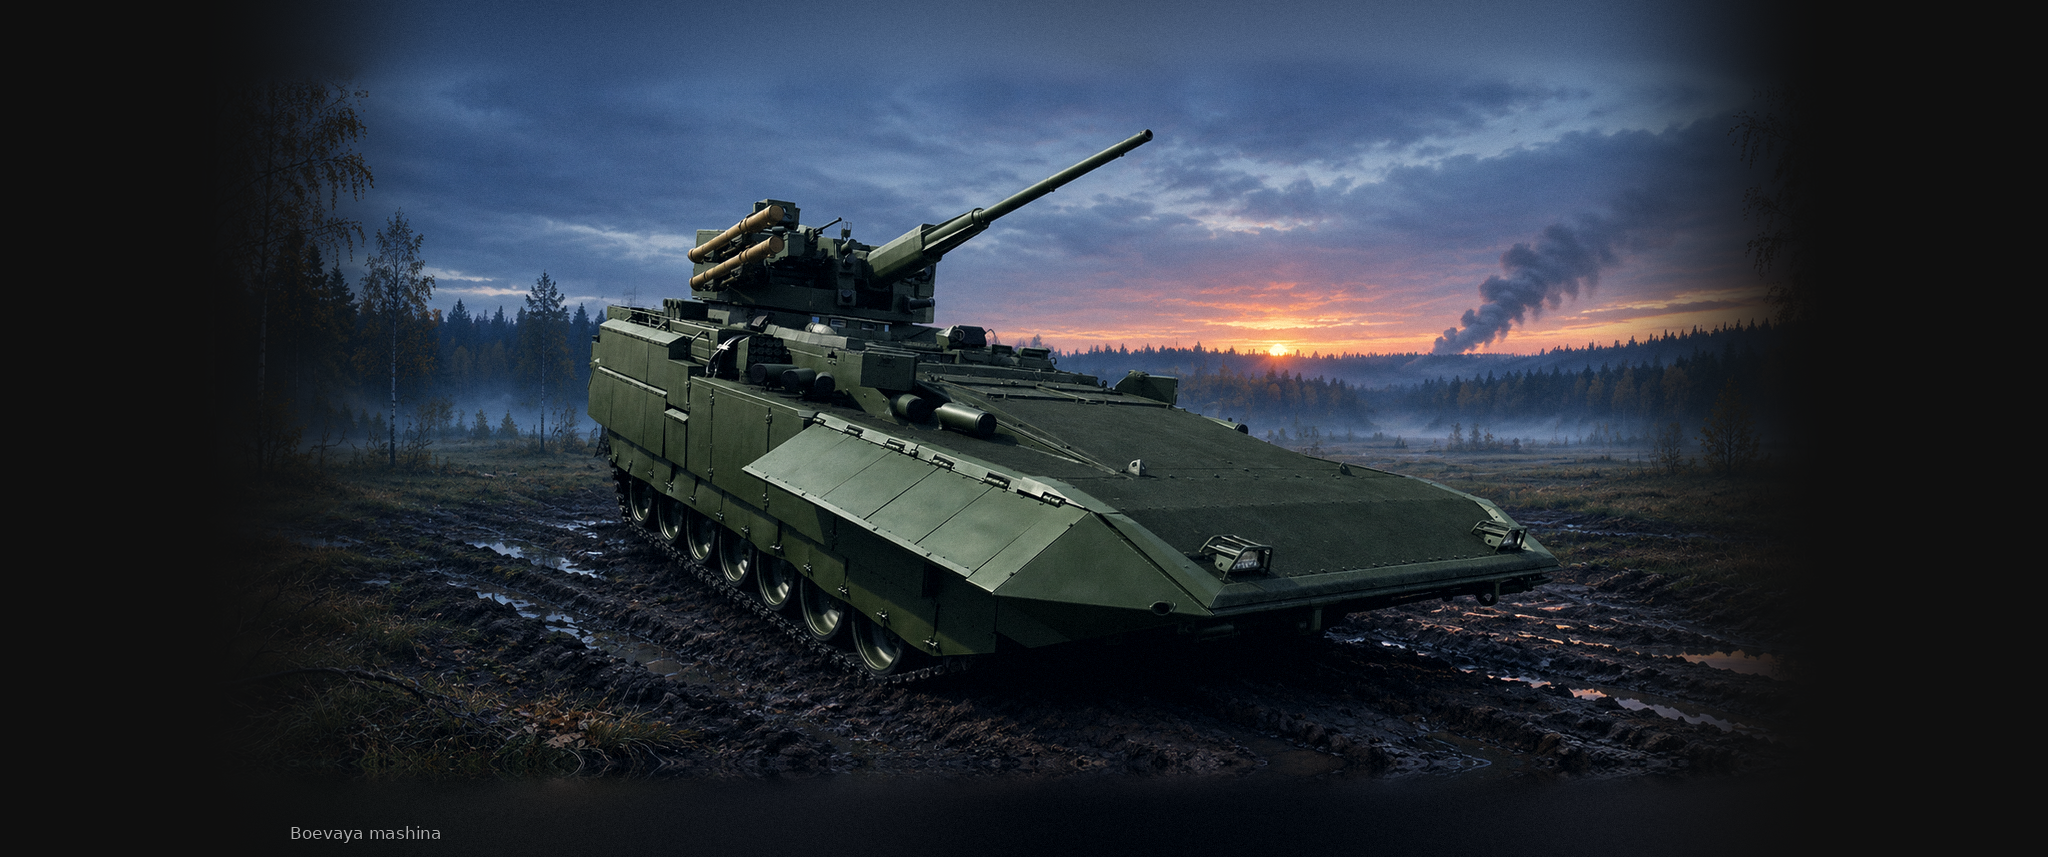
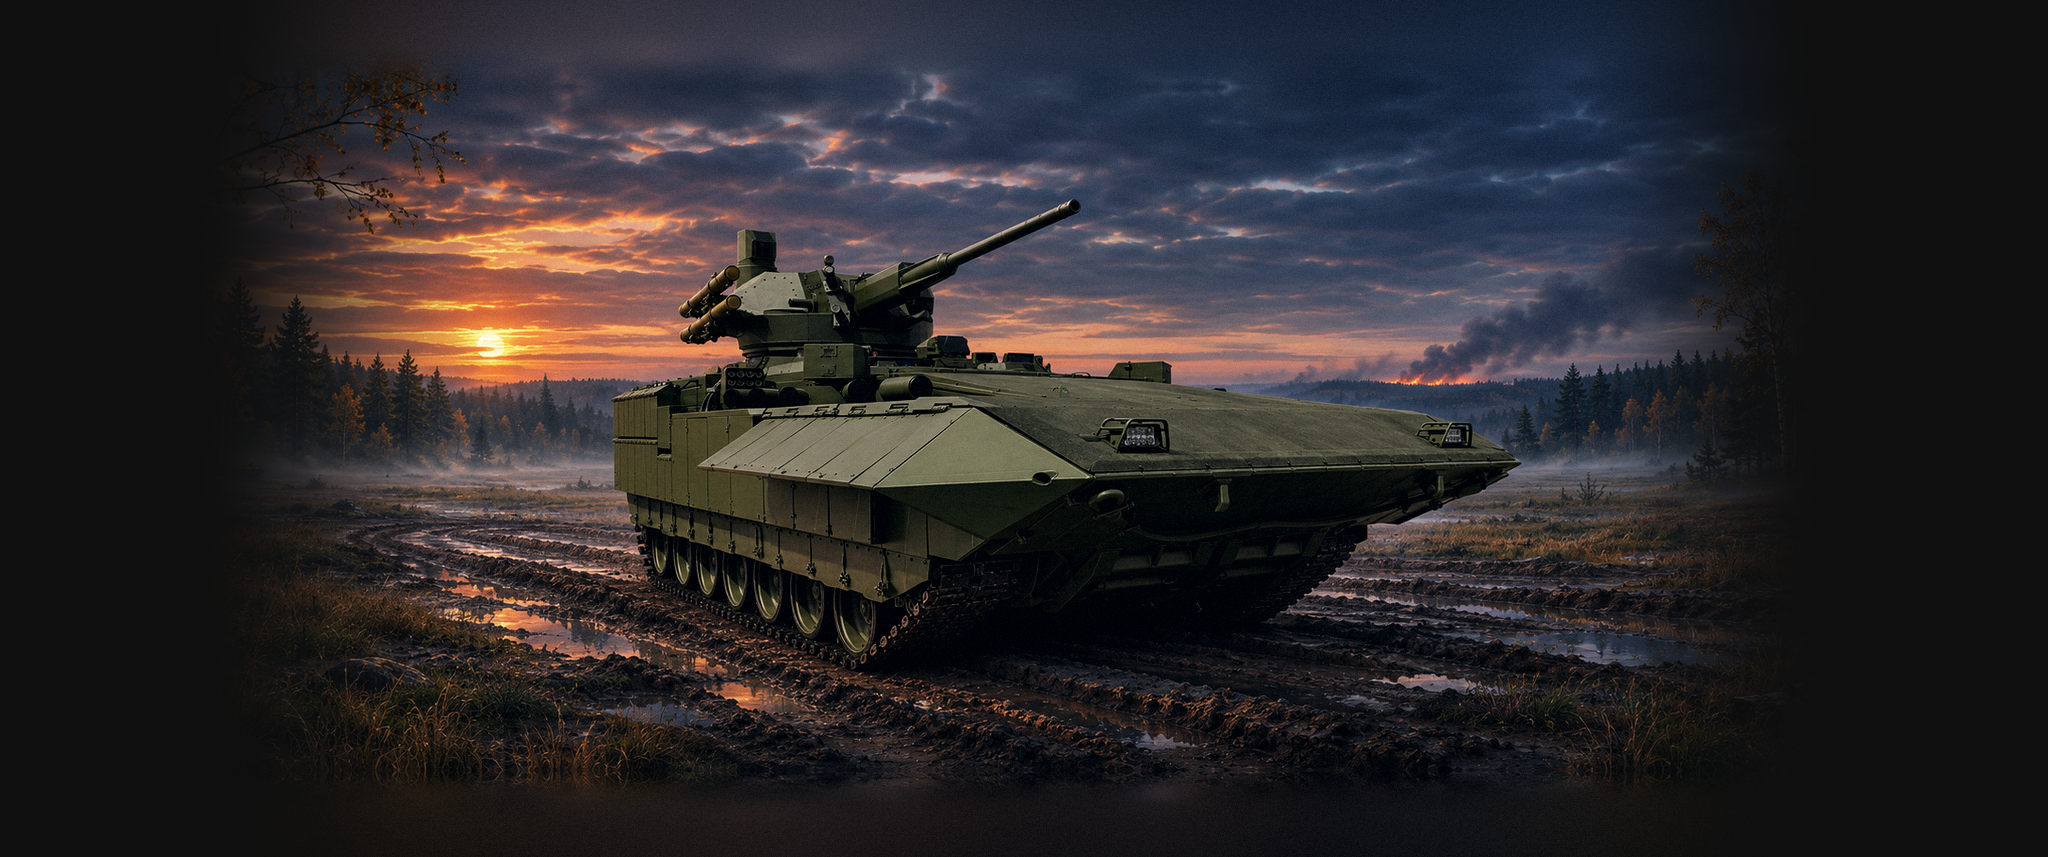
0.9.1-dev.3 batch: T-15 loading screen rebuilt from Osama's reference photo (level ground)

diff --git a/docs/credits/loading-screens.md b/docs/credits/loading-screens.md
@@ -4,14 +4,15 @@ Some Freedom Arrow loading screens are AI re-paintings built around real photogr
 
 - **AbramsX** (FA_US_LOADING_11_abramsx): "AbramsX.jpg" by Abovfold, CC BY 4.0.
 - **T-14 Armata** (FA_RU_LOADING_12_t14_armata): "T-14 Armata (27053434067).jpg" by Dmitriy Fomin, CC BY 2.0.
-- **T-15 Armata** (FA_RU_LOADING_13_t15_armata_ifv): "T-15 Armia2018.jpg" by Boevaya mashina, CC BY-SA 4.0.
+- **T-15 Armata** (FA_RU_LOADING_13_t15_armata_ifv): built around a reference photo supplied by the team (19 Nov 2026); photographer not yet identified.
 - **Su-47 Berkut** (FA_RU_LOADING_11_su47_berkut): "Sukhoi Su-47 in formation, 2005.jpg" by Sergey Krivchikov, GFDL 1.2.
 - **F-35A** (FA_US_LOADING_12_f35a): newly generated; USAF public-domain photos and the F-35A three-view drawing on Commons were used as shape references only.
 
 Each photo-based screen also shows the photographer's name in the bottom-left corner (Osama, 19 Nov 2026); the full credit and licence are here.
 
-The images derived from CC BY-SA 4.0 and GFDL 1.2 photos are offered under the same licence as their source.
+The image derived from the GFDL 1.2 photo (Su-47) is offered under the same licence as its source.
 
 ## Document change log
 - 2026-11-19 11:3x PST (America/Los_Angeles) — Created with the five vehicle loading screens (0.9.1-dev.3 batch).
 - 2026-11-19 11:4x PST (America/Los_Angeles) — Credits are now also drawn on the images, bottom-left.
+- 2026-11-19 11:5x PST (America/Los_Angeles) — T-15 rebuilt around the team-supplied reference photo; its Wikimedia credit removed.
